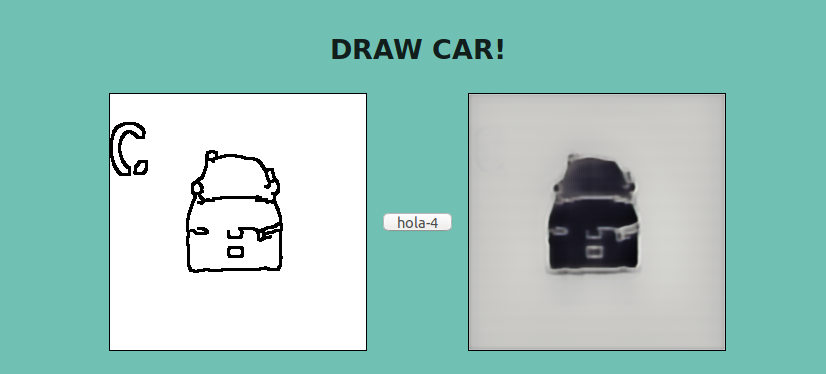
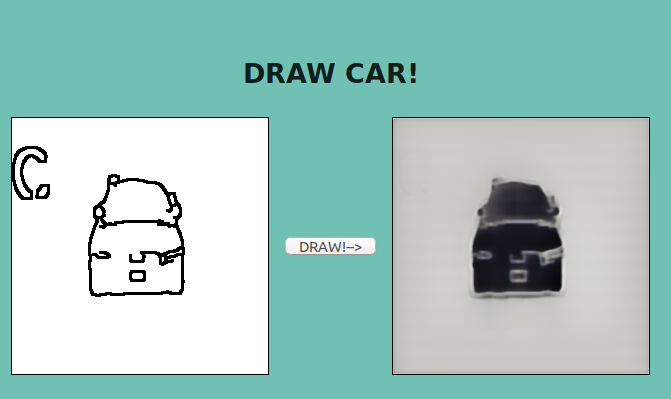
issue frontend

Changed region(s): [[0.0, 0.2353, 0.9836, 0.9412], [0.3577, 0.0882, 0.6259, 0.2059]]

diff --git a/web/frontend/src/uploadimage.js b/web/frontend/src/uploadimage.js
@@ -164,7 +164,7 @@ class ImageUpload extends React.Component {
 					</form>
 					<div className={'imagenesDiv'}>
 						<div className="imgPreview">{$imagePreview}</div>
-						<button onClick={e => this._handleConver(e)}>hola</button>
+						<button onClick={e => this._handleConver(e)}>mascara--></button>
 						<div className="imgPreview">{newPhoto}</div>
 					</div>
 				</div>
@@ -177,7 +177,7 @@ class ImageUpload extends React.Component {
 						<button
 							className={'ButtonConvert'}
 							onClick={e => this._handleSubmit_applymask(e)}>
-							hola-2
+							apply masK-->
 						</button>
 						<div className="imgPreview">{applyMaskPhoto}</div>
 					</div>
@@ -191,7 +191,7 @@ class ImageUpload extends React.Component {
 						<button
 							className={'ButtonConvert'}
 							onClick={e => this._handleSubmit_extractedges(e)}>
-							hola-3
+							Edges-->
 						</button>
 						<div className="imgPreview">{edgesPhoto}</div>
 					</div>
@@ -205,7 +205,7 @@ class ImageUpload extends React.Component {
 						<button
 							className={'ButtonConvert'}
 							onClick={e => this._handleSubmit_cardraw(e)}>
-							hola-4
+							DRAW!-->
 						</button>
 						<div className="imgPreview">{finalcarPhoto}</div>
 					</div>
